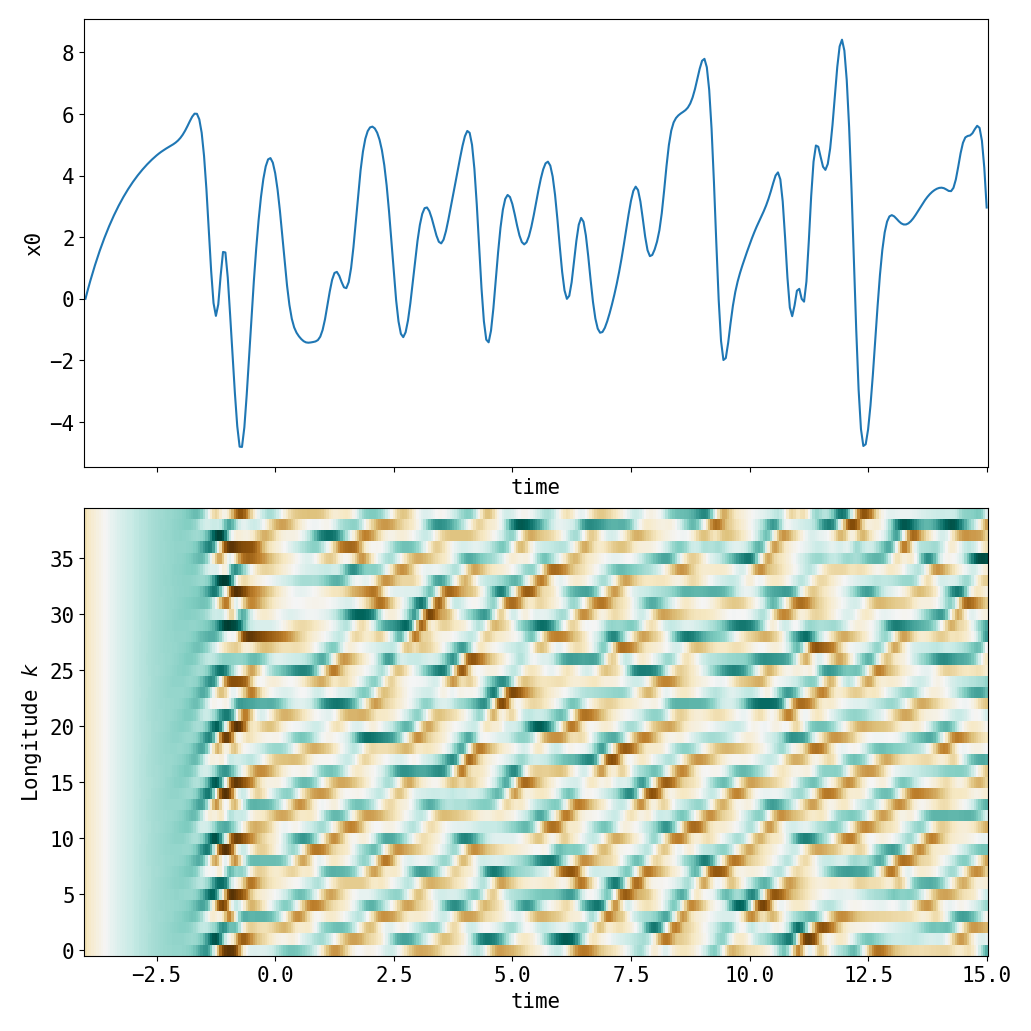
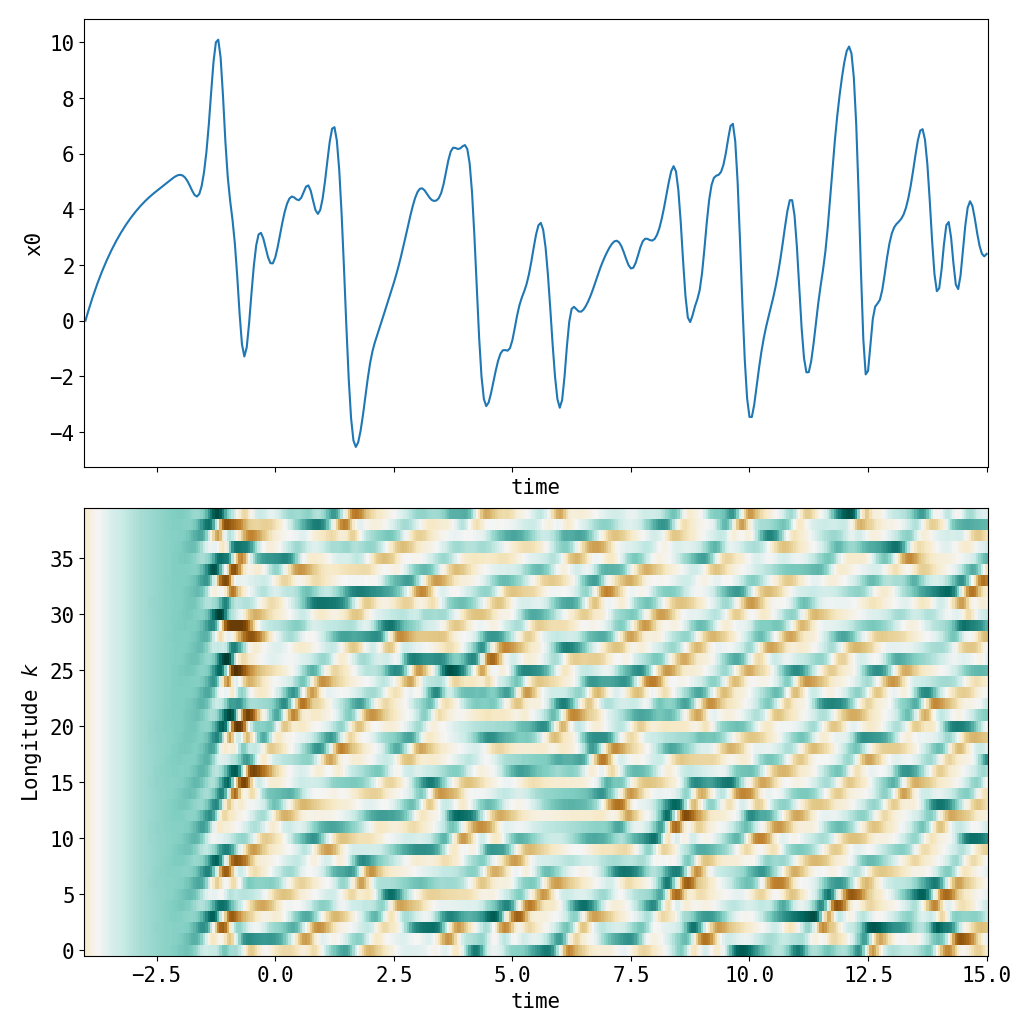
Implemented impulsive forcing. Next must test on L96 and also do stochastic white noise forcing, maybe also sinusoidal in time

diff --git a/dynamicalsystem.py b/dynamicalsystem.py
@@ -19,6 +19,7 @@ class DynamicalSystem(ABC):
     #    pass 
 
 
+
 class ODESystem(DynamicalSystem):
     def __init__(self, state_dim, config, *args, **kwargs):
         self.state_dim = state_dim
@@ -32,7 +33,27 @@ class ODESystem(DynamicalSystem):
     @abstractmethod
     def tendency(self, t, x):
         pass
+    @abstractmethod
+    @staticmethod
+    def apply_impulse(t, x, imp):
+        # apply the perturbation from fc to the instantaneous state x, to get a perturbed state xpert
+    
+        pass
+    @staticmethod
+    def timestep_rk4(t, x, dt, tendency): # physical time units
+        k1 = dt * tendency(t,x)
+        k2 = dt * tendency(t+dt/2, x+k1/2)
+        k3 = dt * tendency(t+dt/2, x+k2/2)
+        k4 = dt * tendency(t+dt, x+k3)
+        xnew = x + (k1 + 2*(k2 + k3) + k4)/6
+        return t+dt, xnew
+    @staticmethod
+    def timestep_euler(t, x, dt, tendency): # physical time units
+        k1 = dt * tendency(t,x)
+        xnew = x + k1
+        return t+dt, xnew
     def run_trajectory_unperturbed(self, init_cond, init_time, fin_time, method):
+        # TODO make this more restrictive: force init_time and fin_time to be integers
         t_save = np.arange(int(np.ceil(init_time)), int(np.floor(fin_time))+1, 1) # unitless
         tp_save = t_save * self.dt_save # physical (unitful)
         Nt_save = len(t_save)
@@ -48,22 +69,47 @@ class ODESystem(DynamicalSystem):
         x = init_cond
         tp = init_time * self.dt_save # physical units
         if method == 'rk4':
-            while tp < tp_save[-1]:
-                k1 = self.dt_step * self.tendency(tp,x)
-                k2 = self.dt_step * self.tendency(tp+self.dt_step/2, x+k1/2)
-                k3 = self.dt_step * self.tendency(tp+self.dt_step/2, x+k2/2)
-                k4 = self.dt_step * self.tendency(tp+self.dt_step, x+k3)
-                xnew = x + (k1 + 2*(k2 + k3) + k4)/6
-                tpnew = tp + self.dt_step
-                if tpnew > tp_save_next:
-                    new_weight = (tp_save_next - tp)/self.dt_step 
-                    x_save[i_save] = (1-new_weight)*x + new_weight*xnew 
-                    i_save += 1
-                    if i_save < Nt_save:
-                        tp_save_next = tp_save[i_save]
-                x = xnew
-                tp = tpnew
+            timestep_fun = self.timestep_rk4
+        elif method == 'euler':
+            timestep_fun = self.timestep_euler
+        while tp < tp_save[-1]:
+            tpnew,xnew = timestep_fun(tp, x, self.dt_step, self.tendency)
+            if tpnew > tp_save_next:
+                new_weight = (tp_save_next - tp)/self.dt_step 
+                x_save[i_save] = (1-new_weight)*x + new_weight*xnew 
+                i_save += 1
+                if i_save < Nt_save:
+                    tp_save_next = tp_save[i_save]
+            x = xnew
+            tp = tpnew
         return t_save,x_save
+    def run_trajectory(self, init_cond_nopert, forcing, observables, method):
+        assert(isinstance(forcing.init_time,int) * isinstance(forcing.fin_time,int))
+        if isinstance(forcing, fc.ImpulsiveForcing):
+            # run one segment at a time, undisturbed, from one impulse to the next
+            t = np.arange(forcing.init_time, forcing.fin_time+1)
+            Nt = len(t)
+            x = np.zeros((Nt, self.state_dim))
+            # Need to set up three things: init_time, init_cond, fin_time
+            init_time_temp = forcing.init_time
+            init_cond = init_cond_nopert.copy()
+            for i_imp in range(len(forcing.impulse_times)):
+                if init_time_temp == forcing.impulse_times[i_imp]:
+                    init_cond_temp = self.apply_impulse(init_time_temp, init_cond_temp, forcing.impulses[i_imp])
+                if i_imp+1 < len(forcing.impulse_times):
+                    fin_time_temp = forcing.impulse_times[i_imp+1]
+                else:
+                    fin_time_temp = forcing.fin_time
+                t_temp,x_temp = self.run_trajectory_unperturbed(init_cond_temp, init_time_temp, fin_time_temp, method)
+                x[init_time_temp:fin_time_temp+1] = x_temp
+                init_time_temp = fin_time_temp
+                init_cond_temp = x_temp[-1]
+        else:
+            raise NotImplementedError
+        return t,x
+
+
+
 
 class Lorenz96(ODESystem):
     def __init__(self, config):
@@ -78,6 +124,9 @@ class Lorenz96(ODESystem):
         return
     def tendency(self, t, x):
         return np.roll(x,1) * (np.roll(x, -1) - np.roll(x,2)) - x + self.F
+    @staticmethod
+    def apply_impulse(t, x, imp):
+        return x + imp[0]*np.cos(2*np.pi*4*np.arange(self.K)/self.K) + imp[1]*np.sin(2*np.pi*4*np.arange(self.K)/self.K)
     
 
 
@@ -90,6 +139,9 @@ def test_Lorenz96():
     fin_time = 15.0/tu
     method = 'rk4'
     t_save,x_save = ode.run_trajectory_unperturbed(init_cond, init_time, fin_time, method)
+
+    # now make a perturbation
+    forcing = fc.Forcing(init_time+3, fin_time+3, impulse_times = [0], impulses=[np.random.randn(size=(2,))])
 
     fig,axes = plt.subplots(nrows=2,figsize=(10,10), sharex=True, constrained_layout=True)
     ax = axes[0]

diff --git a/forcing.py b/forcing.py
@@ -1,21 +1,21 @@
 from abc import ABC, abstractmethod
 
-class Forcing:
-    def __init__(self, init_time, term_time, *args, **kwargs):
+class Forcing(ABC):
+    def __init__(self, init_time, fin_time, *args, **kwargs):
         self.init_time = init_time
-        self.term_time = term_time # inclusive
+        self.fin_time = fin_time # inclusive
         return
 
 class ImpulsiveForcing(Forcing):
-    def __init__(self, init_time, term_time, impulse_times, impulses):
-        super().__init__(init_time, term_time)
+    def __init__(self, init_time, fin_time, impulse_times, impulses):
+        super().__init__(init_time, fin_time)
         self.impulse_times = impulse_times
         self.impulses = impulses
         return
 
+
 class AdditiveTendencyForcing(Forcing):
-    def __init__(self, init_time, term_time, tendency_pert, tendency_type):
-        super().__init__(init_time, term_time)
-        self.tendency_pert = tendency_pert
-        self.tend
+    def __init__(self, init_time, fin_time, params):
+        super().__init__(init_time, fin_time)
+        self.
 
